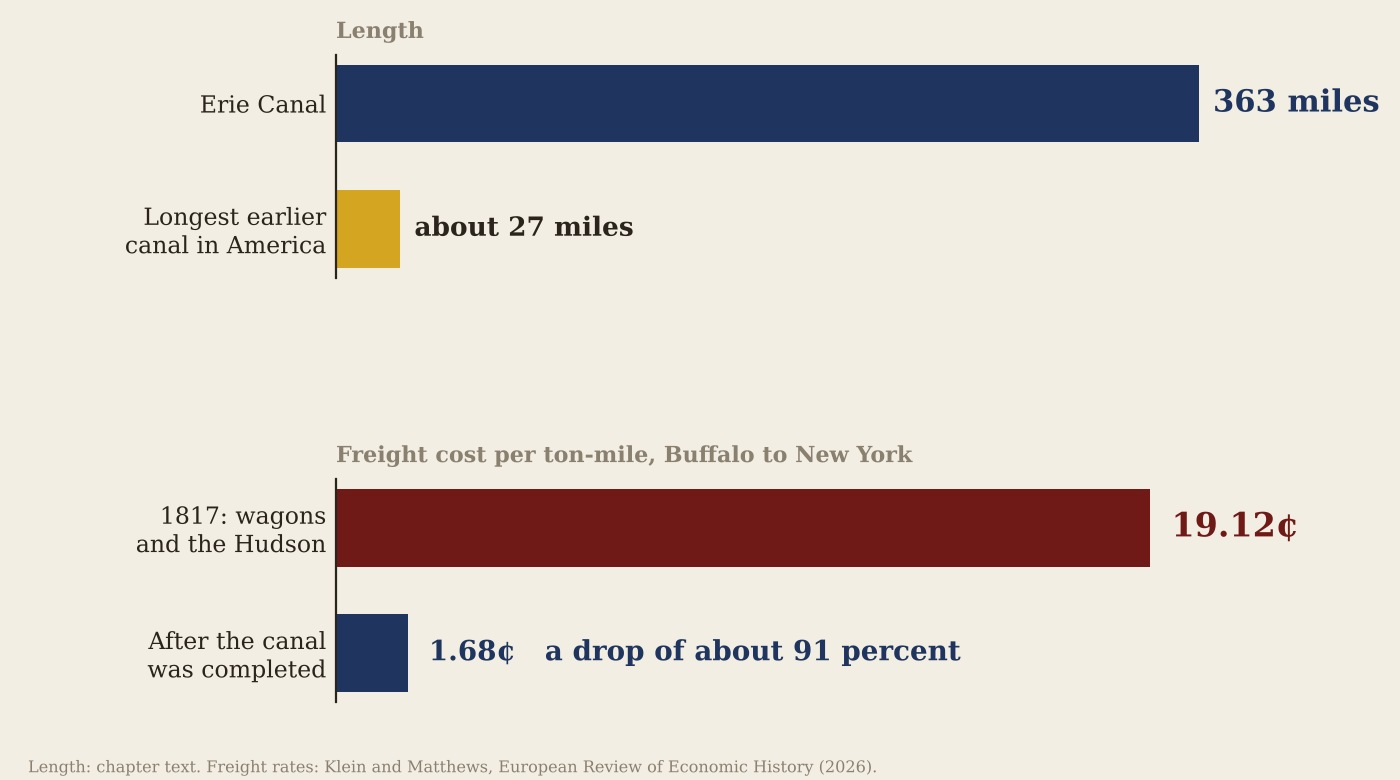
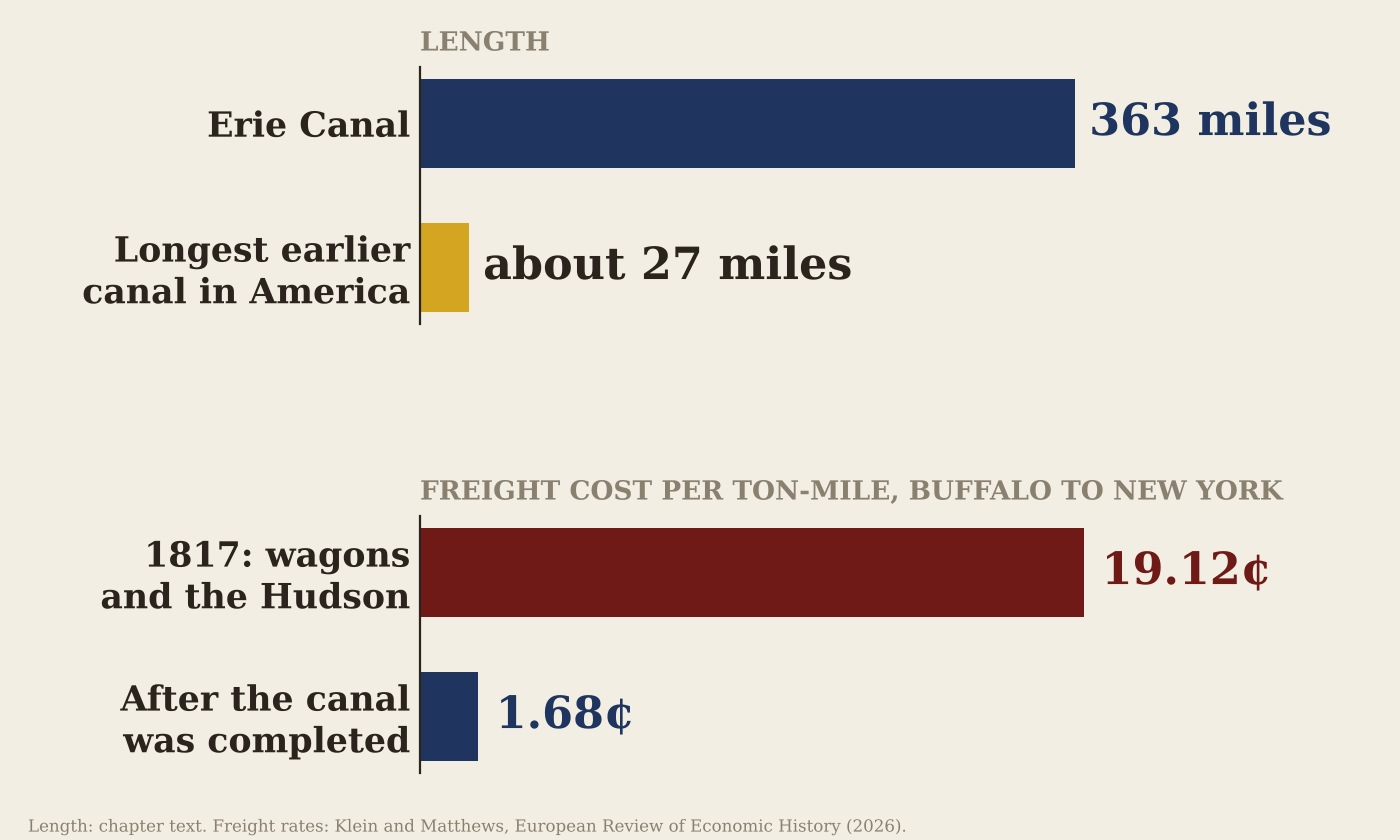
Add files via upload

diff --git a/chapter-13.html b/chapter-13.html
@@ -82,7 +82,7 @@ textarea:focus{outline:none;border-color:#efcf98 !important}
       <div style="display:flex;gap:22px;align-items:center;color:#f2efe9">
         <div><div style="font-family:'Inter Tight',sans-serif;font-weight:300;font-size:30px">8</div><div style="font-family:'Inter',sans-serif;font-size:12px;color:#e8e4dc">Interactives</div></div>
         <div style="width:1px;height:38px;background:rgba(255,255,255,.25)"></div>
-        <div><div style="font-family:'Inter Tight',sans-serif;font-weight:300;font-size:30px">17</div><div style="font-family:'Inter',sans-serif;font-size:12px;color:#e8e4dc">Images</div></div>
+        <div><div style="font-family:'Inter Tight',sans-serif;font-weight:300;font-size:30px">21</div><div style="font-family:'Inter',sans-serif;font-size:12px;color:#e8e4dc">Images</div></div>
       </div>
     </div>
   </div>
@@ -664,22 +664,26 @@ class Component extends DCLogic {
     const img = (key, ratio, maxW, caption, credit) => ({ isImage: true, slot: 'c13-' + key, src: '' + key + '.jpg', ratio, maxW, caption, credit: credit ? 'Credit: ' + credit : '', hasCredit: !!credit });
     const F = {
       lockdiag: img('lock-diagram', '1520/980', '760px', 'Figure 13.5 · How a canal lock lifts a boat. The boat enters, the lower gate closes, water from the upper level fills the chamber and raises the boat, and when the levels match the upper gate opens. Going down reverses the steps.', 'Diagram by the author'),
-      mileage: img('canal-mileage', '1400/800', '760px', 'Figure 13.7 · U.S. canal mileage by region, 1820–1860. The Middle Atlantic states, home of the Erie, held about 54 percent of all canal miles in 1860.', 'Klein and Matthews, European Review of Economic History (2026), Table 1, after Atack (2016)'),
-      fultoncard: img('fulton-card', '1400/600', '720px', 'Figure 13.10 · Fulton’s own account of the first steamboat trip to Albany, 1807: 150 miles in 32 hours going up and 30 coming back, the whole way under steam with the wind ahead.', 'Fulton’s published account, 1807, as reproduced by HistoryCentral; figure by the author'),
+      fultoncard: img('fulton-card', '1400/780', '760px', 'Figure 13.10 · New York to Albany, 150 miles, before and after steam. Fulton’s boat made the trip in 32 hours in 1807, against the wind and under steam alone. A sloop might make it in 24 hours, but that was the exception; a week was much more likely.', 'Fulton’s published account, 1807, as reproduced by HistoryCentral; Scenic Hudson, “Sloops: the Special Boats that Transformed the Hudson”; figure by the author'),
       timeline: img('credit-timeline', '1480/700', '800px', 'Figure 13.1 · From no colonial banks to a banking system, 1776–1819. Counts of state banks in 1816 differ by source, but all exceed two hundred.', 'Figure by the author; facts from the chapter text and note 5'),
       arteries: img('arteries-map', '1400/1060', '820px', 'Figure 13.3 · The arteries of the Market Revolution: the National Road, the Erie Canal, the Ohio and Mississippi rivers, and the first telegraph line, Washington to Baltimore.', 'Map by the author; base data Natural Earth (public domain). Routes approximate'),
       steamboat: img('fulton-steamboat-hollyer', '1478/742', '720px', 'Figure 13.9 · “First trip of Fulton’s steamboat to Albany, 1807,” engraving by Samuel Hollyer, copyright 1907. Hollyer drew the scene a century after the voyage, so it shows how later generations pictured it.', 'Library of Congress, Prints and Photographs Division (cph 3a05165)'),
-      slater: img('slater-mill-axonometric', '1800/1432', '820px', 'Figure 13.11 · Slater Mill, Pawtucket, Rhode Island, in an exploded view of the mill’s framing and foundation beside the Blackstone River, showing the original mill (labeled 1793) and its additions of 1801, 1818–1820, and 1828–1832. Drawn by Karl N. Bodensiek.', 'Historic American Engineering Record (HAER RI-1), Library of Congress'),
-      lowellnums: img('lowell-numbers', '1400/720', '720px', 'Figure 13.15 · The Lowell mills in the chapter’s numbers: the span of the workday, and who filled the mills.', 'Figure by the author; figures from the chapter text'),
+      slater: img('slater-mill-axonometric', '1800/1432', '820px', 'Figure 13.13 · Slater Mill, Pawtucket, Rhode Island, in an exploded view of the mill’s framing and foundation beside the Blackstone River, showing the original mill (labeled 1793) and its additions of 1801, 1818–1820, and 1828–1832. Drawn by Karl N. Bodensiek.', 'Historic American Engineering Record (HAER RI-1), Library of Congress'),
+      lowellnums: img('lowell-numbers', '1400/720', '720px', 'Figure 13.18 · The Lowell mills in the chapter’s numbers: the span of the workday, and who filled the mills.', 'Figure by the author; figures from the chapter text'),
       note: img('bank-note-1816', '1800/740', '640px', 'Figure 13.2 · A $5 note of the Farmers and Mechanics Bank of Cincinnati, dated July 20, 1816. The bank failed three years later, in the Panic of 1819.', 'National Museum of American History, Smithsonian Institution'),
       lockport: img('lockport-excavation', '1400/1035', '640px', 'Figure 13.4 · Process of Excavation, Lockport. A lithograph printed by Imbert, catalogued as 1825, showing derricks lifting stone from the rock cut at Lockport. The print records the work; it does not identify the men doing it.', 'Library of Congress, Prints and Photographs Division'),
-      erie: img('erie-canal-chart', '1400/780', '720px', 'Figure 13.6 · The scale of the Erie Canal: 363 miles, against about twenty-seven for the longest earlier American canal. On the Buffalo-to-New York route, freight cost 19.12 cents per ton-mile in 1817 and 1.68 cents once the canal was complete, a drop of about 91 percent. The figures describe that route, not every shipment everywhere.', 'Klein and Matthews, European Review of Economic History (2026); length from the chapter text'),
-      tape: img('telegraph-tape', '1400/69', '820px', 'Figure 13.8 · The paper tape of the first official telegraph message, May 24, 1844: “What hath God wrought” in dots and dashes, the letters written beneath, with Samuel F. B. Morse’s note across the top.', 'Library of Congress, Manuscript Division, Samuel F. B. Morse Papers'),
-      musket: img('musket-armorer', '1400/1744', '420px', 'Figure 13.12 · Putting the Musket Together. An armorer at the Springfield Armory fits a musket together from finished parts, in an engraving from Harper’s Weekly, September 21, 1861.', 'Harper’s Weekly, vol. 5, no. 247 (September 21, 1861), 605; scan, Internet Archive'),
-      timetable: img('lowell-timetable', '1400/1812', '560px', 'Figure 13.13 · Time Table of the Lowell Mills, to take effect October 21, 1851. Bells rang the day in and out: the first morning bell as early as 4:30, work ten minutes after the last morning bell, and the evening bell as late as 7:30. Standard time came from “the regulator clock of Joseph Raynes.”', 'Time Table of the Lowell Mills (Lowell, Mass.: B. H. Penhallow, 1851). Baker Library, Harvard Business School, Baker Old Class Collection (NG 764L5:442 T583)'),
-      offering: img('lowell-offering', '1400/1885', '420px', 'Figure 13.14 · The Lowell Offering, no. 1, “wholly written by females employed in the mills.” Harvard’s catalogue dates the issue to October 1840; the cover carries no year.', 'Harvard Library, Women Working, 1800–1930'),
-      workday: img('workday-chart', '1400/445', '720px', 'Figure 13.16 · The Lowell working day in the mid-1840s, against the ten hours the petitioners asked the Massachusetts legislature for in 1845.', 'Data: Massachusetts House Document no. 50, March 1845'),
-      gin: img('cotton-gin-patent', '1400/2088', '480px', 'Figure 13.17 · Patent drawing of Eli Whitney’s cotton gin, sheet 1, headed “Patented Mar. 14, 1794.” The sheet comes from the Patent Office’s restored drawings, made after the fire of 1836; a pencil note in the margin reads “missing Figs not in orig. dwg.”', 'National Archives, Records of the Patent and Trademark Office, Record Group 241')
+      erie: img('erie-canal-chart', '1400/840', '720px', 'Figure 13.6 · The scale of the Erie Canal: 363 miles, against about twenty-seven for the longest earlier American canal. On the Buffalo-to-New York route, freight cost 19.12 cents per ton-mile in 1817 and 1.68 cents once the canal was complete, a drop of about 91 percent. The figures describe that route, not every shipment everywhere.', 'Klein and Matthews, European Review of Economic History (2026); length from the chapter text'),
+      tape: img('telegraph-tape', '1400/69', '820px', 'Figure 13.7 · The paper tape of the first official telegraph message, May 24, 1844: “What hath God wrought” in dots and dashes, the letters written beneath, with Samuel F. B. Morse’s note across the top.', 'Library of Congress, Manuscript Division, Samuel F. B. Morse Papers'),
+      musket: img('musket-armorer', '1400/1744', '420px', 'Figure 13.14 · Putting the Musket Together. An armorer at the Springfield Armory fits a musket together from finished parts, in an engraving from Harper’s Weekly, September 21, 1861.', 'Harper’s Weekly, vol. 5, no. 247 (September 21, 1861), 605; scan, Internet Archive'),
+      timetable: img('lowell-timetable', '1400/1812', '560px', 'Figure 13.16 · Time Table of the Lowell Mills, to take effect October 21, 1851. Bells rang the day in and out: the first morning bell as early as 4:30, work ten minutes after the last morning bell, and the evening bell as late as 7:30. Standard time came from “the regulator clock of Joseph Raynes.”', 'Time Table of the Lowell Mills (Lowell, Mass.: B. H. Penhallow, 1851). Baker Library, Harvard Business School, Baker Old Class Collection (NG 764L5:442 T583)'),
+      offering: img('lowell-offering', '1400/1885', '420px', 'Figure 13.17 · The Lowell Offering, no. 1, “wholly written by females employed in the mills.” Harvard’s catalogue dates the issue to October 1840; the cover carries no year.', 'Harvard Library, Women Working, 1800–1930'),
+      workday: img('workday-chart', '1400/445', '720px', 'Figure 13.19 · The Lowell working day in the mid-1840s, against the ten hours the petitioners asked the Massachusetts legislature for in 1845.', 'Data: Massachusetts House Document no. 50, March 1845'),
+      gin: img('cotton-gin-patent', '1400/2088', '480px', 'Figure 13.20 · Patent drawing of Eli Whitney’s cotton gin, sheet 1, headed “Patented Mar. 14, 1794.” The sheet comes from the Patent Office’s restored drawings, made after the fire of 1836; a pencil note in the margin reads “missing Figs not in orig. dwg.”', 'National Archives, Records of the Patent and Trademark Office, Record Group 241'),
+      telegraph: img('telegraph-timeline', '1480/740', '820px', 'Figure 13.8 · The telegraph, 1837–1861: from Morse’s code to a line across the continent. Milestones are evenly spaced, not to scale.', 'Drawn from the chapter text and its note 9'),
+      incorp: img('incorporation-card', '1400/620', '760px', 'Figure 13.11 · The terms of New York’s general incorporation act of March 22, 1811.', 'Drawn from the chapter text and its note 17'),
+      textile: img('textile-timeline', '1480/740', '820px', 'Figure 13.12 · Building an American textile industry, 1789–1845. Milestones are evenly spaced, not to scale.', 'Drawn from the chapter text and its notes 19–28'),
+      hall: img('hall-rifles-card', '1400/720', '760px', 'Figure 13.15 · Two tests of interchangeable parts: Whitney’s 1801 demonstration and the 1827 test of John H. Hall’s rifles.', 'Drawn from the chapter text and its note 21; armorers’ report as printed in H. Rep. 375, 24th Cong., 1st sess. (1836)'),
+      cotton: img('cotton-cycle', '1400/920', '760px', 'Figure 13.21 · The cotton complex: how the gin tied northern mills, southern plantations, and enslaved labor into one expanding system.', 'Drawn from the chapter text, “The Cotton Complex”')
     };
     const TQ = ['What does the law say?', 'What do the morals mandate?', 'Who holds the power?'];
     const lmp3 = (key, conflict) => ({ isLMP: true, conflict, qs: TQ.map((text, i) => ({ text, val: s.notes[key + i] || '', onChange: e => this.setNote(key + i, e.target.value) })) });
@@ -688,19 +692,20 @@ class Component extends DCLogic {
       'The Credit System': { 0: [F.timeline, F.note] },
       'Roads and Rivers': { 0: [F.arteries] },
       'The National Road': { 4: [{ isRoad: true }] },
-      'The Erie Canal': { 0: [F.lockport, F.lockdiag, F.erie, F.mileage] },
-      'The Telegraph': { 0: [F.tape] },
+      'The Erie Canal': { 0: [F.lockport, F.lockdiag, F.erie] },
+      'The Telegraph': { 0: [F.tape, F.telegraph] },
       'The State Line': { 0: [F.steamboat, F.fultoncard] },
-      'The American Industrial Revolution': { 0: [F.slater] },
+      'General Incorporation': { 0: [F.incorp] },
+      'The American Industrial Revolution': { 0: [F.textile, F.slater] },
       'The Price of the Mill': { 0: [F.lowellnums] },
       'Railways': { 0: [{ isArteries: true }] },
       'Charles River Bridge': { 2: [{ isCourt: true }] },
       'The Reaper and the Plow': { 0: [{ isBottleneck: true }] },
-      'Interchangeable Parts': { 0: [F.musket] },
+      'Interchangeable Parts': { 0: [F.musket, F.hall] },
       'The Lowell Girls': { 0: [F.timetable, F.offering, { isLowell: true }] },
       'Two Kinds of Freedom': { 0: [{ isKinds: true }] },
       'The Labor Question': { 0: [F.workday, { isTenHour: true }] },
-      'The Cotton Complex': { 0: [F.gin] }
+      'The Cotton Complex': { 0: [F.gin, F.cotton] }
     };
     const sections = d ? d.sections.map((sec, i) => {
       const blocks = [];
